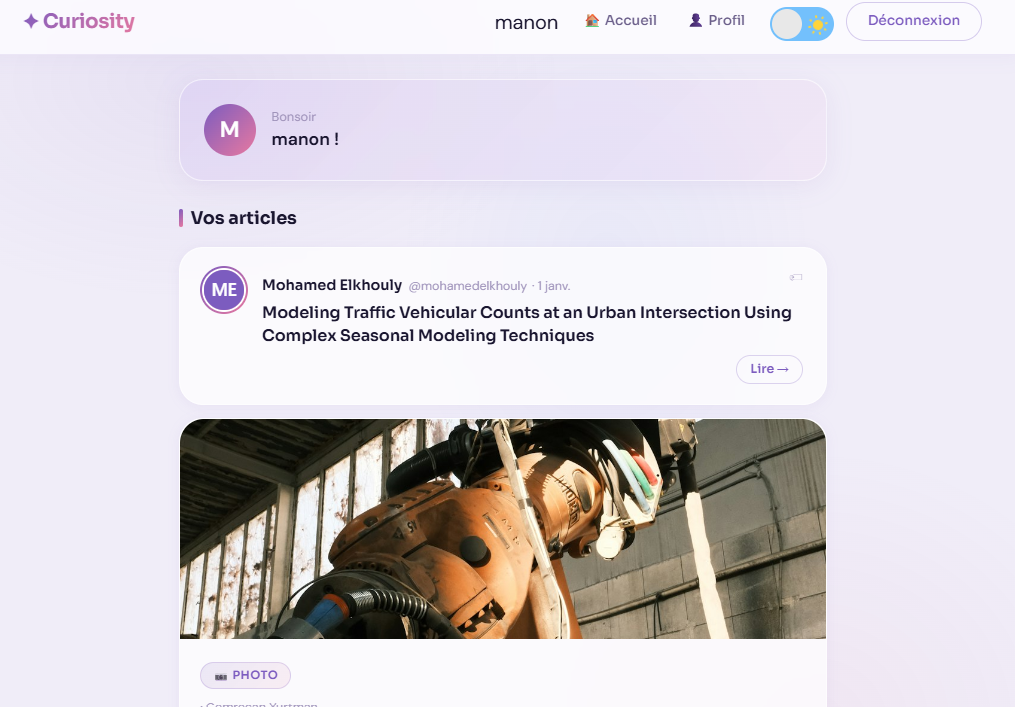
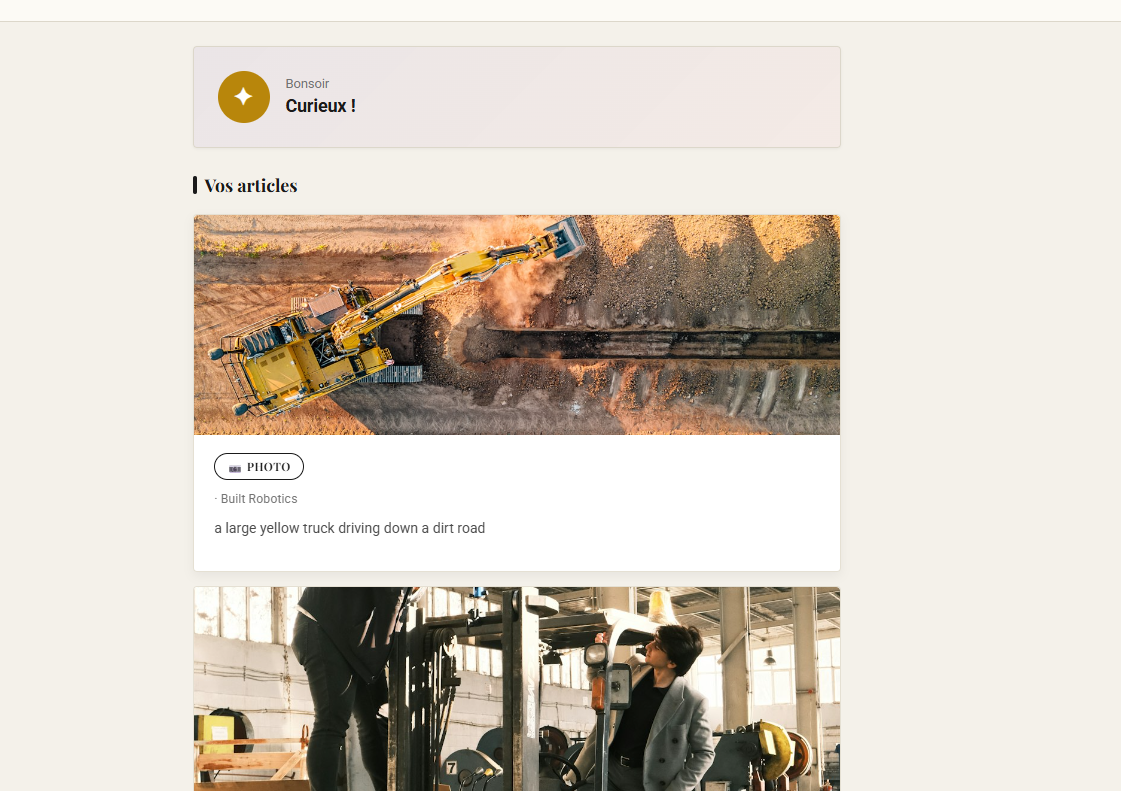
style projet

diff --git a/src/pages/Projet/Projet.tsx b/src/pages/Projet/Projet.tsx
@@ -8,7 +8,8 @@ const Projet = () => {
         {
             id: "exp-1",
             title: "be-curious",
-            content: `Projet de fin d'année de Master 2 - Le projet be-curious est une plateforme de veille technique d'apprentissage personnalisée.
+            content: `Plateforme de veille, offrant aux utilisateurs la possibilité d'avoir des contenus divers sur leurs centre d'intéret précis. 
+            Comme par exemple - la médecine, la robotique, l'histoire de l'art..
                         `,
             image: beCuriousImg,
             lien: "https://be-curious.fr/home"
@@ -31,7 +32,7 @@ const Projet = () => {
     ]
     const positions = [
 
-        { top: "10%", left: "20%", rotate: "-3deg" },
+        { top: "5%", left: "25%", rotate: "-3deg" },
         { top: "20%", left: "60%", rotate: "7deg" },
         { top: "50%", left: "26%", rotate: "-10deg" },
         { top: "65%", left: "55%", rotate: "2deg" },
@@ -50,10 +51,10 @@ const Projet = () => {
                                         ...positions[i],
                                     }}
                                     className="card"
-                                    initial={{ width: 380, height: 40 }}
+                                    initial={{ width: 480, height: 40 }}
                                     whileHover={{
-                                        width: 500,
-                                        height: 350,
+                                        width: 480,
+                                        height: 400,
                                     }}
                                     transition={{ duration: 0.35 }}
                                 >
@@ -63,7 +64,11 @@ const Projet = () => {
                                         <span className="dot green"></span>
                                         $ cat project : {element.title}.txt
                                     </div>
-
+                                    <motion.div
+                                        transition={{ delay: 0.2 }}
+                                        className="terminal-title"
+                                    >
+                                        <h2>{element.title}</h2></motion.div>
                                     <motion.div
                                         transition={{ delay: 0.2 }}
                                         className="terminal-content"
@@ -71,13 +76,14 @@ const Projet = () => {
 
 
                                         <p>$ {element.content}</p>
-                                        <img
+  <img
                                             src={element.image}
                                             alt={element.title}
                                             className="project-image"
-                                        />
+                                        /> 
                                     </motion.div>
-                                </motion.div></a>
+                                    </motion.div>
+                                </a>
                         )
                     })
                 }

diff --git a/src/pages/Projet/Projet.css b/src/pages/Projet/Projet.css
@@ -29,6 +29,9 @@
 .card:hover .terminal-content {
     opacity: 1;
 }
+.card:hover .terminal-title {
+    opacity: 1;
+}
 .card-header {
     color: #333;
 }
@@ -71,7 +74,13 @@
     align-items: flex-start;
     text-align : left;
 
-    padding: 40px 10px;
+    padding: 10px 10px;
+}
+
+.terminal-title {
+color: black;    
+    opacity: 0;
+    transition: opacity .25s;    
 }
 
 
